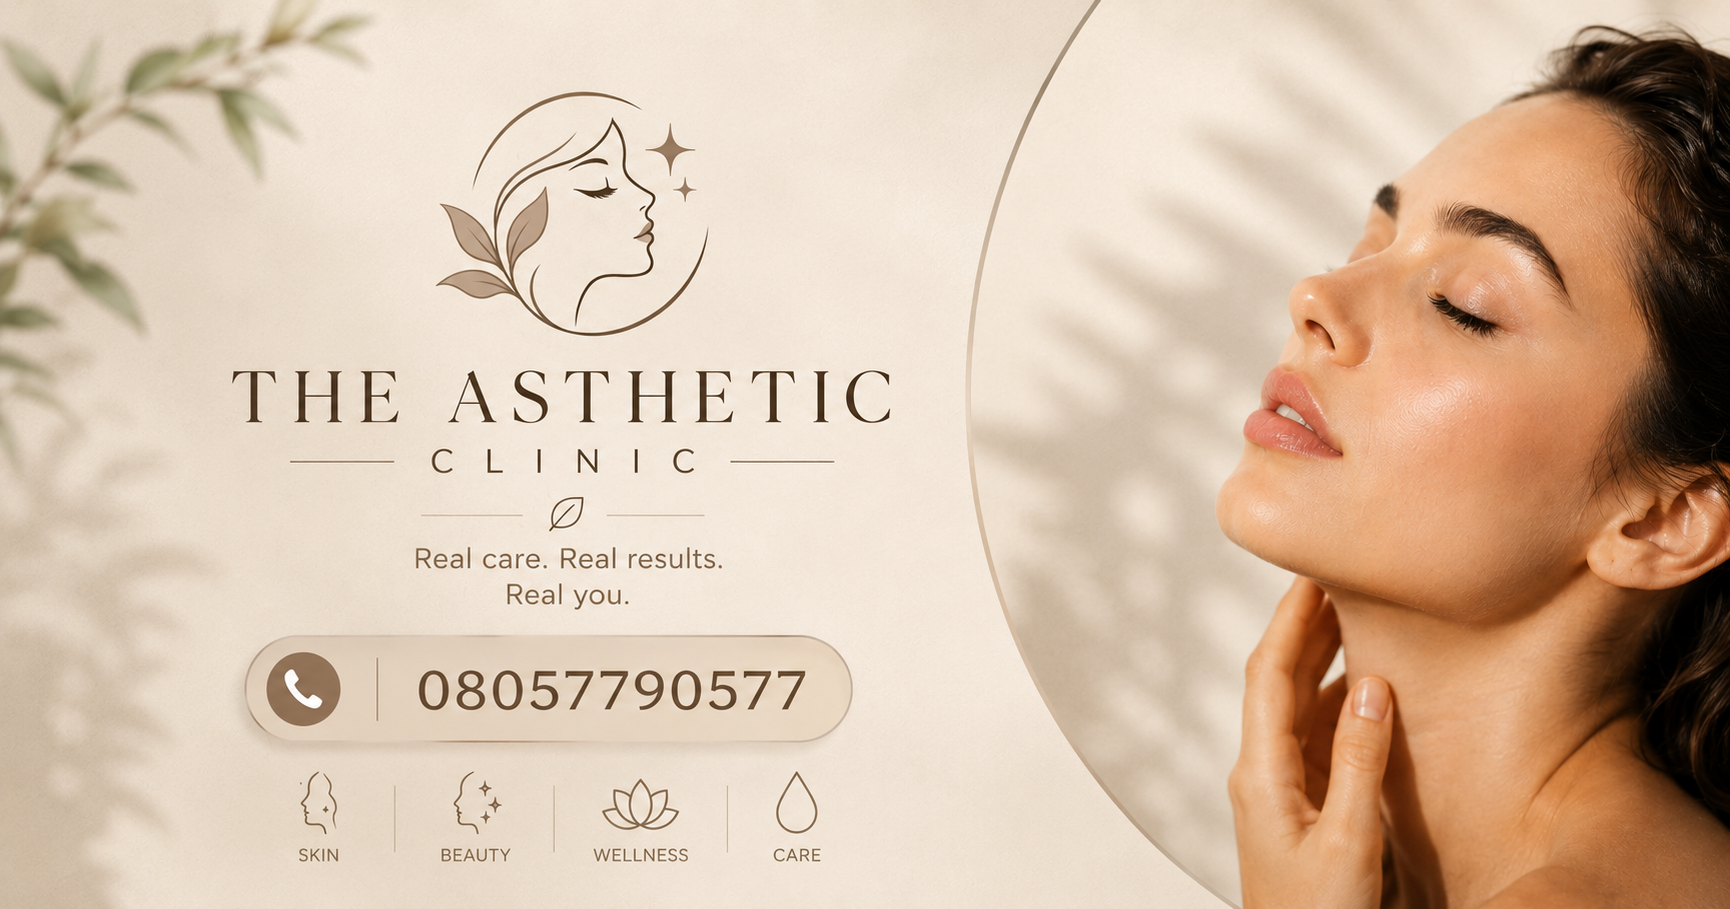
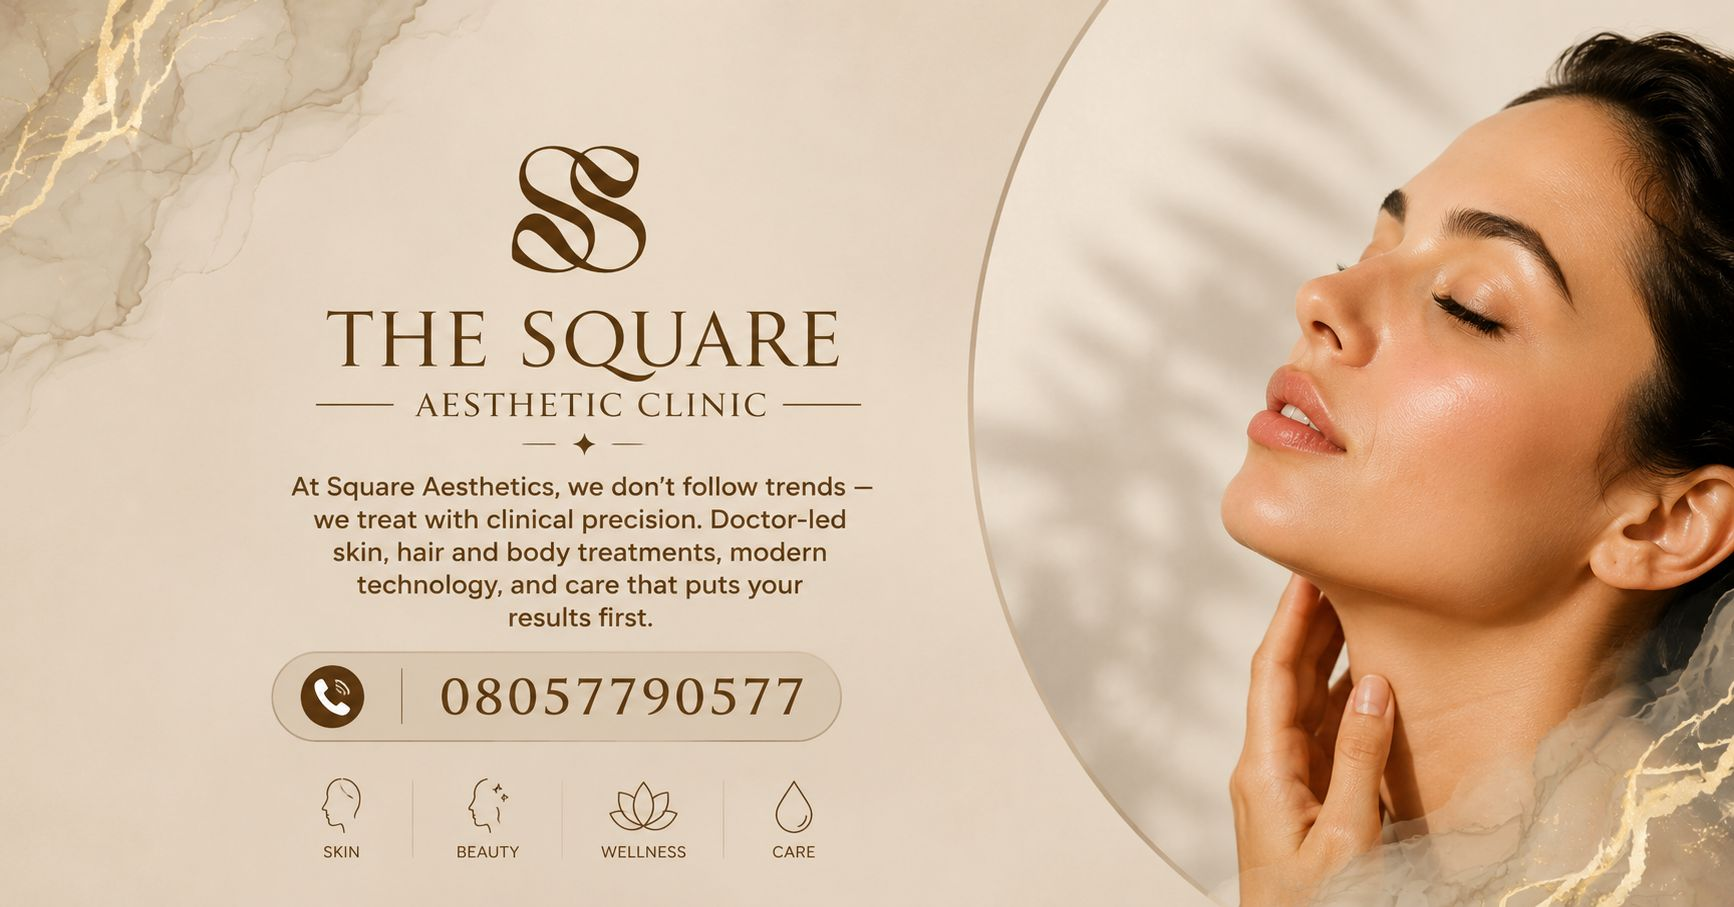
seo added

diff --git a/sections/hero/page.tsx b/sections/hero/page.tsx
@@ -68,13 +68,13 @@ export default function Hero() {
           don't compound into a muddy, "dirty" look on small screens. */}
       <div ref={bgRef} className="absolute inset-0">
         <Image
-          src="/gallery/galary-1-compressed.jpg"
+          src="/herobg.jpg"
           alt="Aesthetic Clinic — skin and hair treatment clinic interior in Rajouri Garden, Delhi"
           fill
           priority
           fetchPriority="high"
           sizes="100vw"
-          className="object-cover object-center brightness-[0.65] saturate-[0.92] sm:brightness-[0.5] sm:saturate-[0.85]"
+          className="object-boxfit object-center brightness-[0.65] saturate-[0.92] sm:brightness-[0.5] sm:saturate-[0.85]"
         />
       </div>
 
@@ -114,20 +114,28 @@ export default function Hero() {
             Aesthetic Clinic — Rajouri Garden
           </p>
 
-          {/* Single H1 on the page — good for SEO */}
-          <h1 ref={headingRef} className="font-display text-4xl font-semibold leading-[1.15] text-white sm:text-5xl lg:text-6xl">
-            Rajouri Garden&apos;s{" "}
-            <span className="bg-[length:200%_auto] bg-gradient-to-r from-gold-soft via-amber-200 to-gold-soft bg-clip-text italic text-transparent animate-text-shimmer">
-              Precision
-            </span>{" "}
-            Skin &amp; Hair Clinic
-          </h1>
+        
+<h1
+  ref={headingRef}
+  className="font-display text-4xl font-semibold leading-[1.15] text-white sm:text-5xl lg:text-6xl"
+>
+  Rajouri Garden&apos;s{" "}
+  <span className="bg-[length:200%_auto] bg-gradient-to-r from-gold-soft via-amber-200 to-gold-soft bg-clip-text italic text-transparent animate-text-shimmer">
+    Best
+  </span>{" "}
+  Skin &amp; Hair Clinic
+</h1>
 
-          <p ref={subRef} className="mt-6 max-w-md font-sans text-base leading-relaxed text-white/85 sm:text-lg">
-            At Aesthetic Clinic, we don&apos;t follow trends — we treat with
-            clinical precision. Doctor-led skin, hair and body treatments,
-            modern technology, and care that puts your results first.
-          </p>
+<p
+  ref={subRef}
+  className="mt-6 max-w-md font-sans text-base leading-relaxed text-white/85 sm:text-lg"
+>
+  At Square Aesthetics, we don&apos;t follow trends — we treat with clinical
+  precision. Doctor-led skin, hair and body treatments, modern technology,
+  and care that puts your results first.
+</p>
+```
+
 
           <div className="mt-8 flex flex-wrap items-center gap-4">
             <a href="#booking" className="btn-pill-solid">
